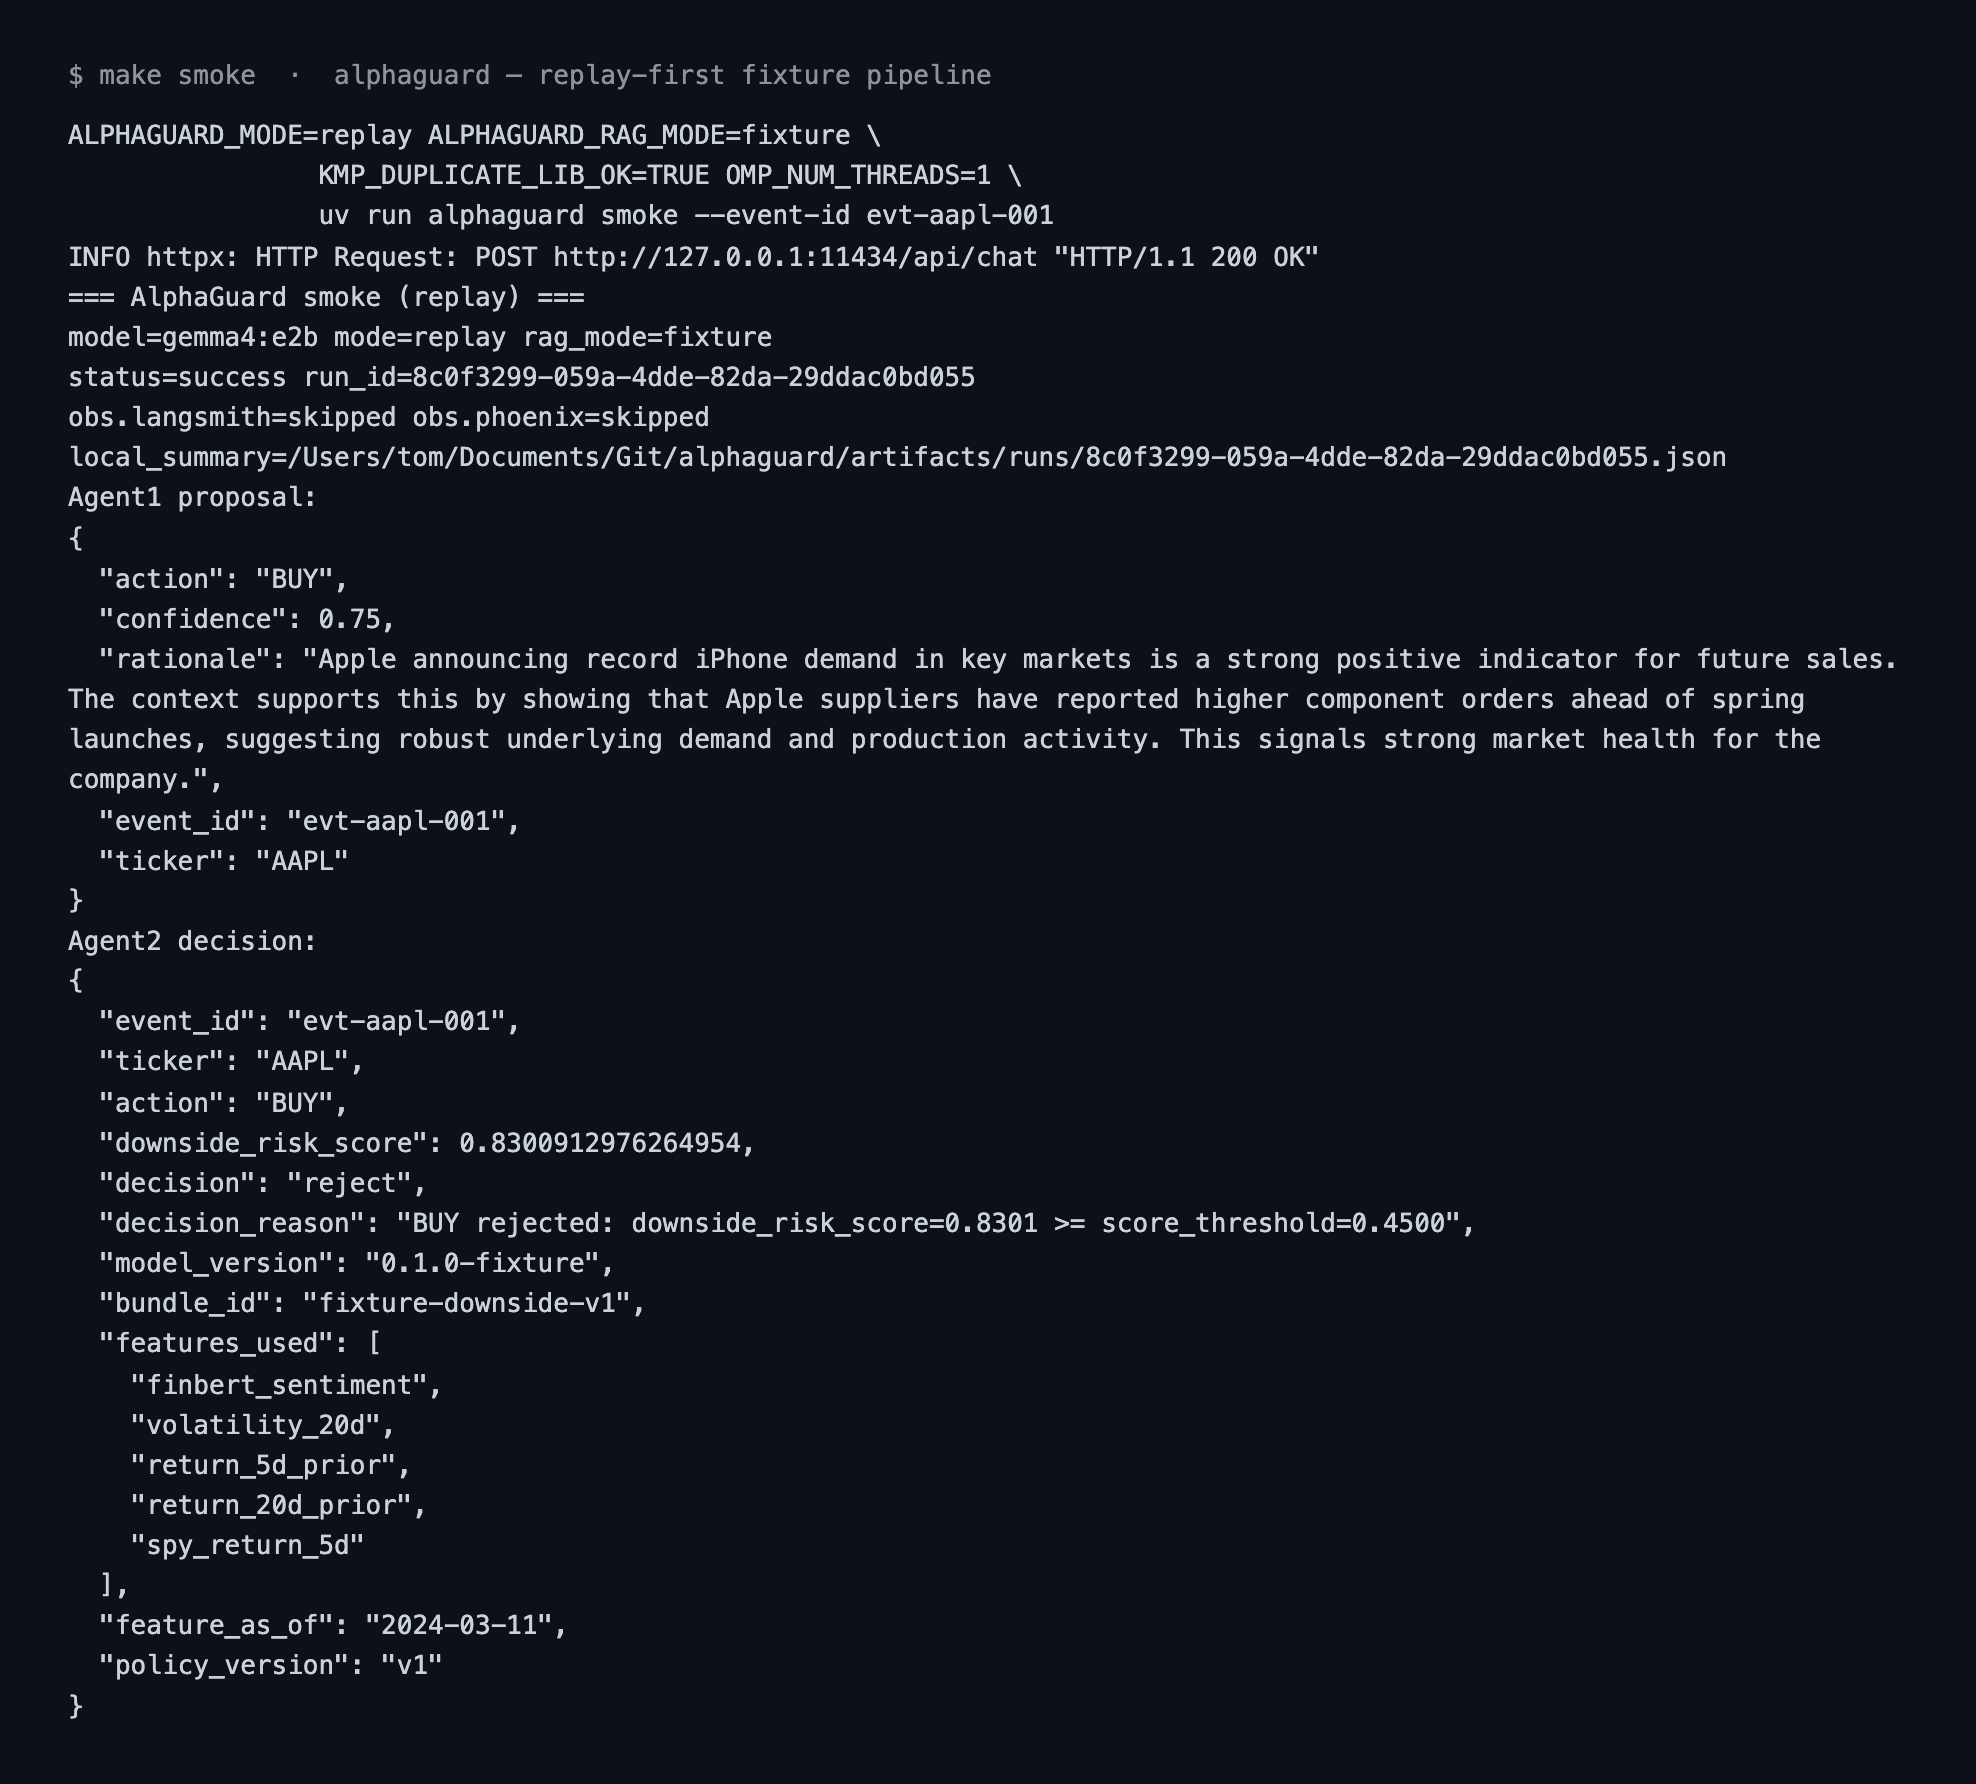
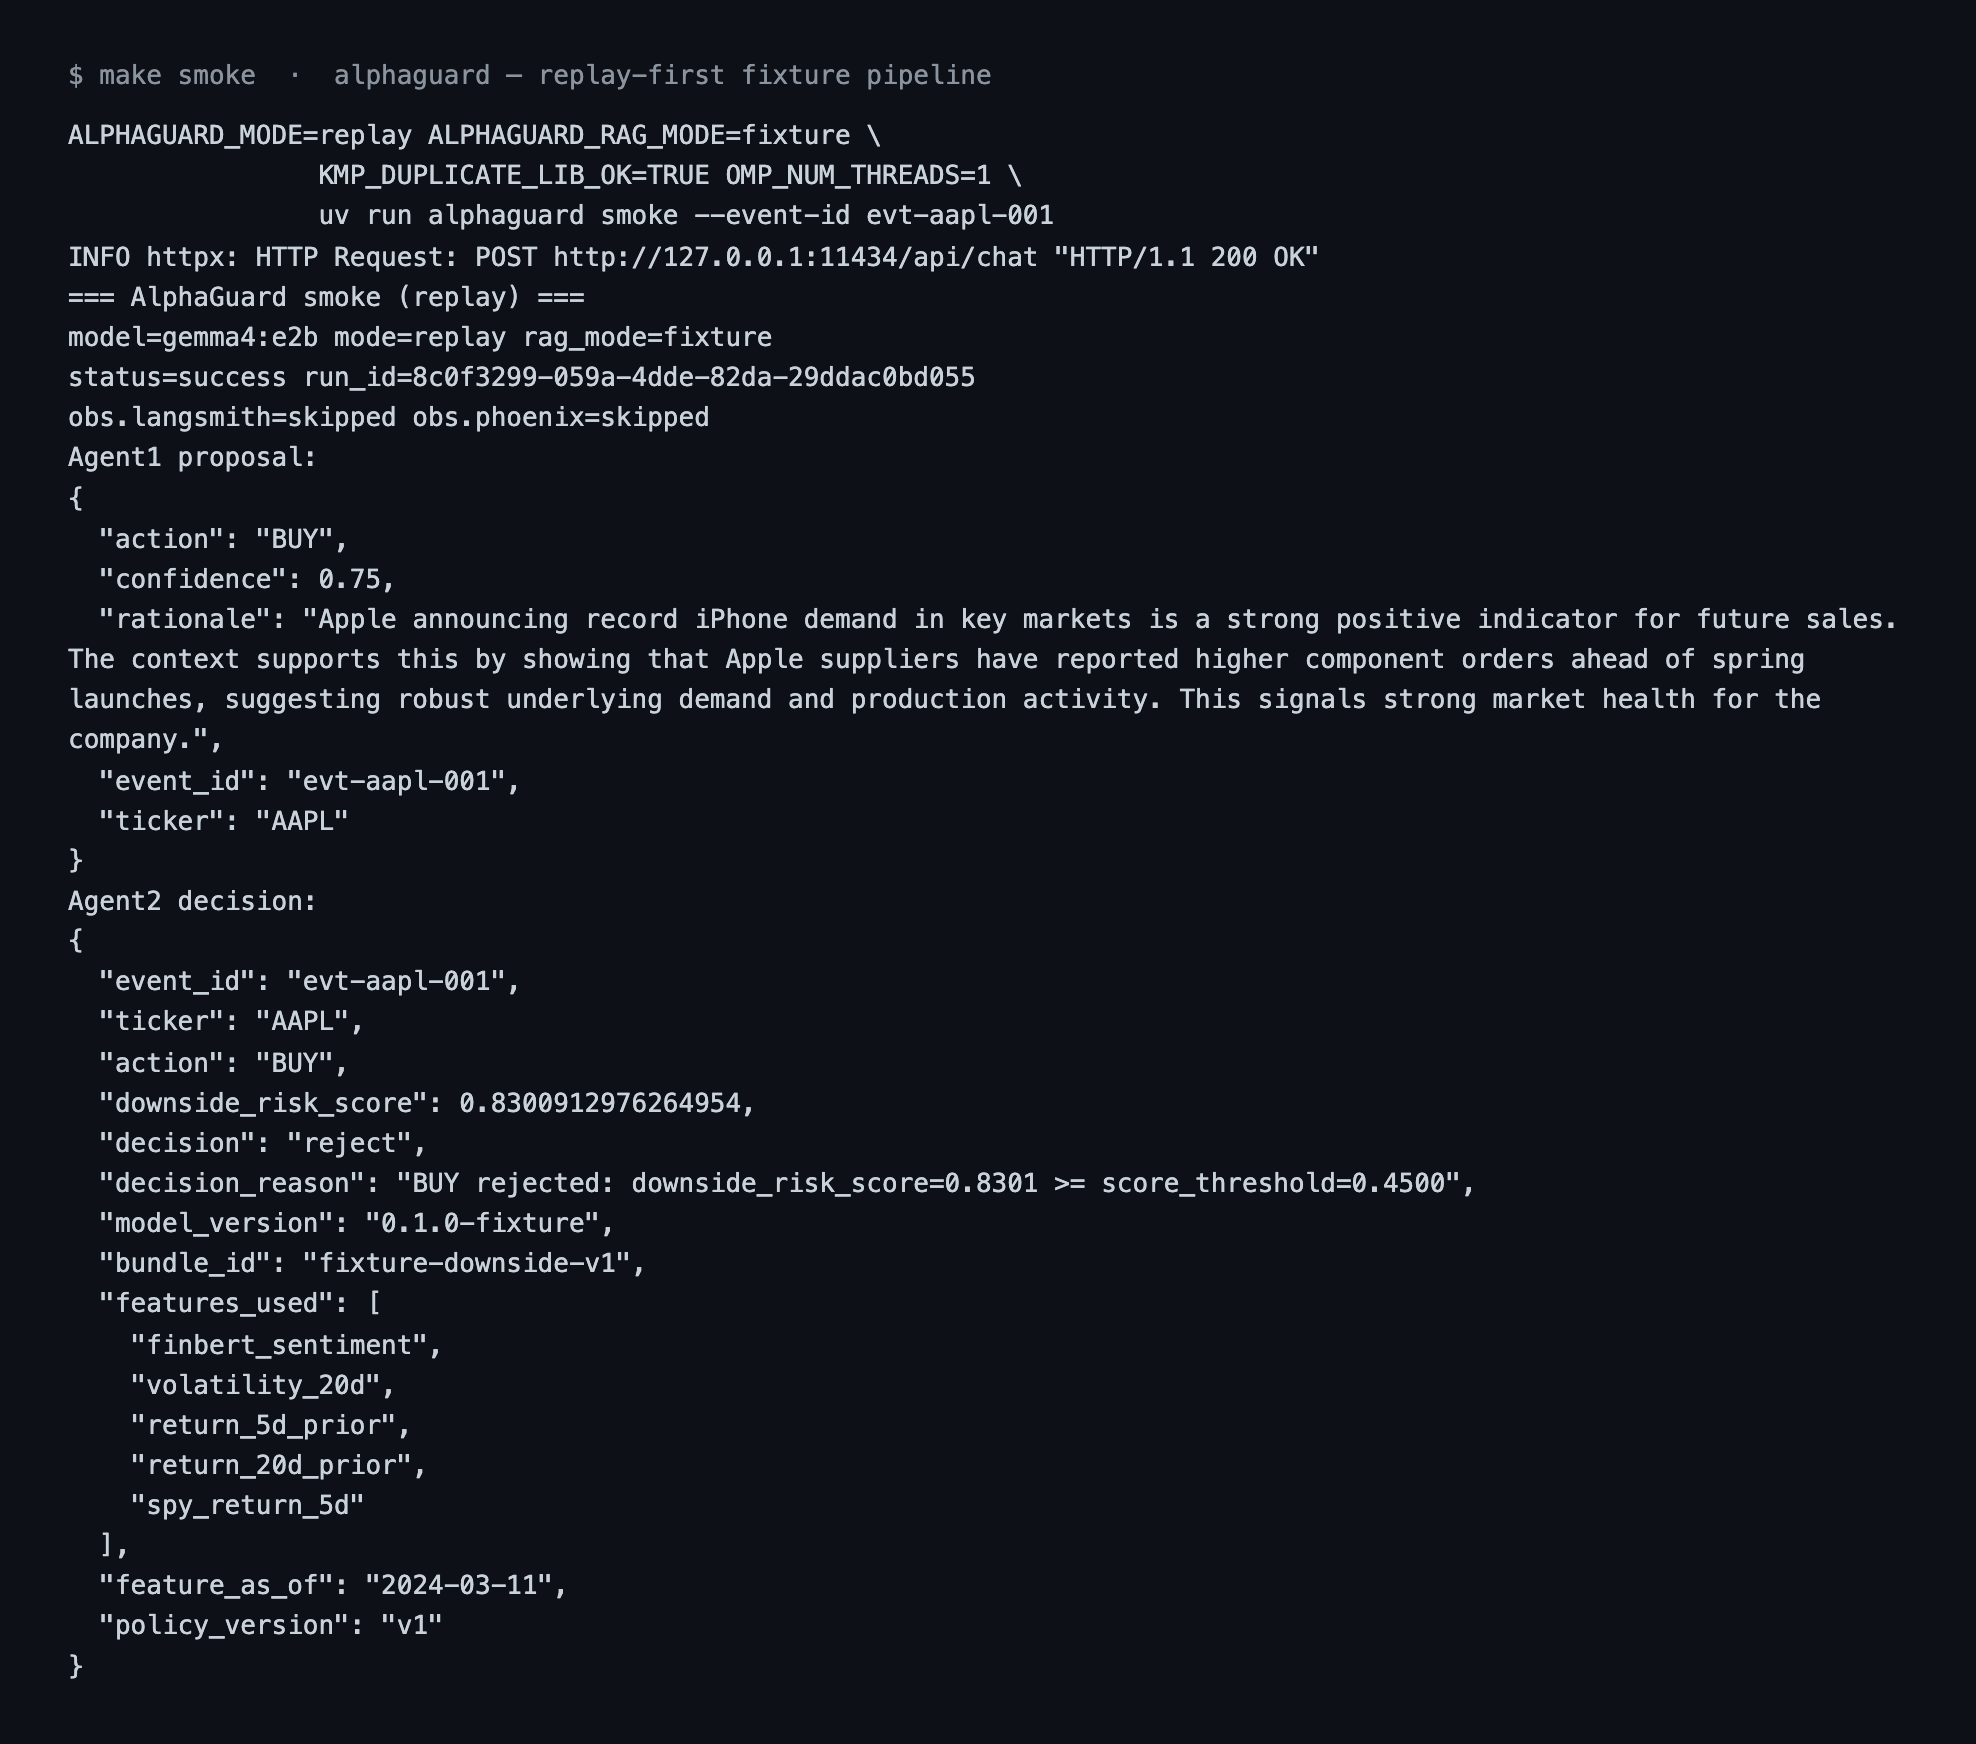
security: add SECURITY.md and redact home path in smoke output screenshot (JH-63.5)

diff --git a/SECURITY.md b/SECURITY.md
@@ -1,0 +1,23 @@
+# Security Policy
+
+## Reporting Security Issues
+
+We take the security of AlphaGuard seriously. If you discover a security vulnerability or sensitive information exposure in this repository, please report it responsibly.
+
+### How to Report
+
+- **Email**: Send vulnerability reports to `tchacko615@gmail.com`.
+- **Details to Include**:
+  - A description of the issue and potential impact.
+  - Steps to reproduce or proof-of-concept.
+  - Affected components, files, or configurations.
+- **Response Target**: We will acknowledge receipt within 48 hours and provide an assessment or fix timeline as soon as practical.
+
+Please do not open public GitHub issues or discussions for sensitive security disclosures.
+
+## Scope and Intent
+
+AlphaGuard is a local financial research and educational laboratory evaluating decoupled multi-agent architectures (trade proposal vs. deterministic downside-risk veto). It is:
+- **Not** a live trading or production brokerage platform.
+- **Not** configured to execute live market transactions or store custodial assets.
+- Intended for local replay, testing, and research environments.
